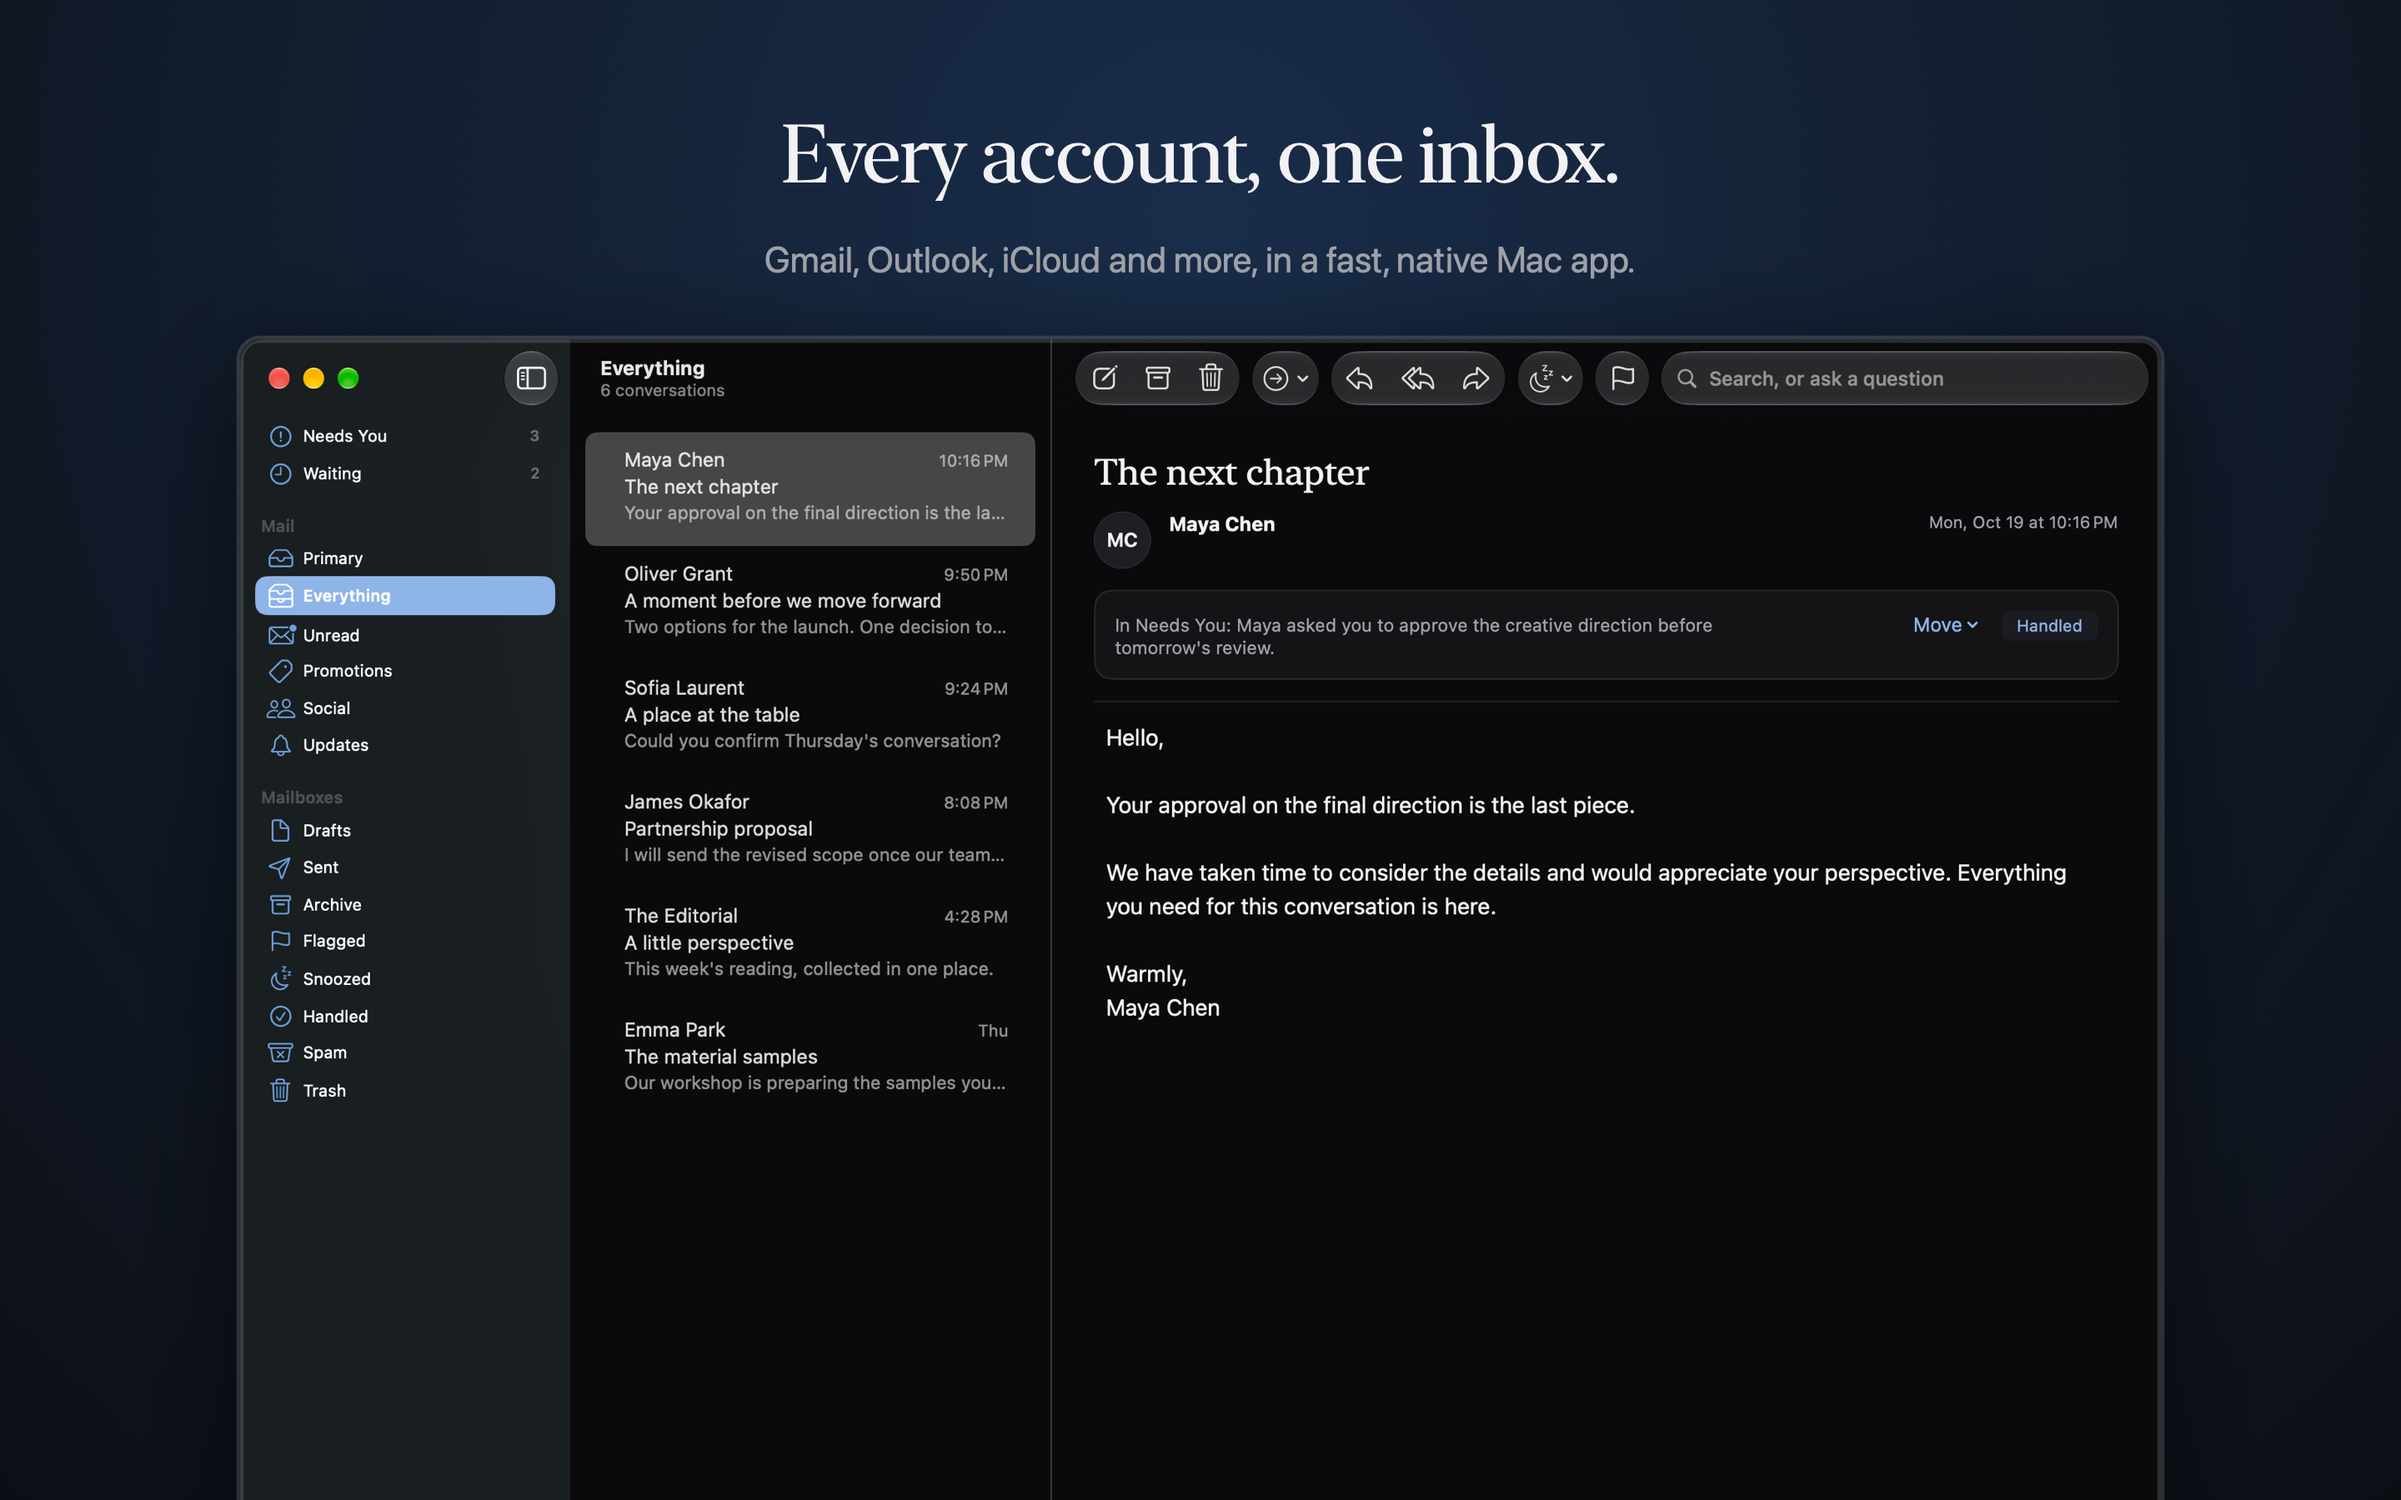
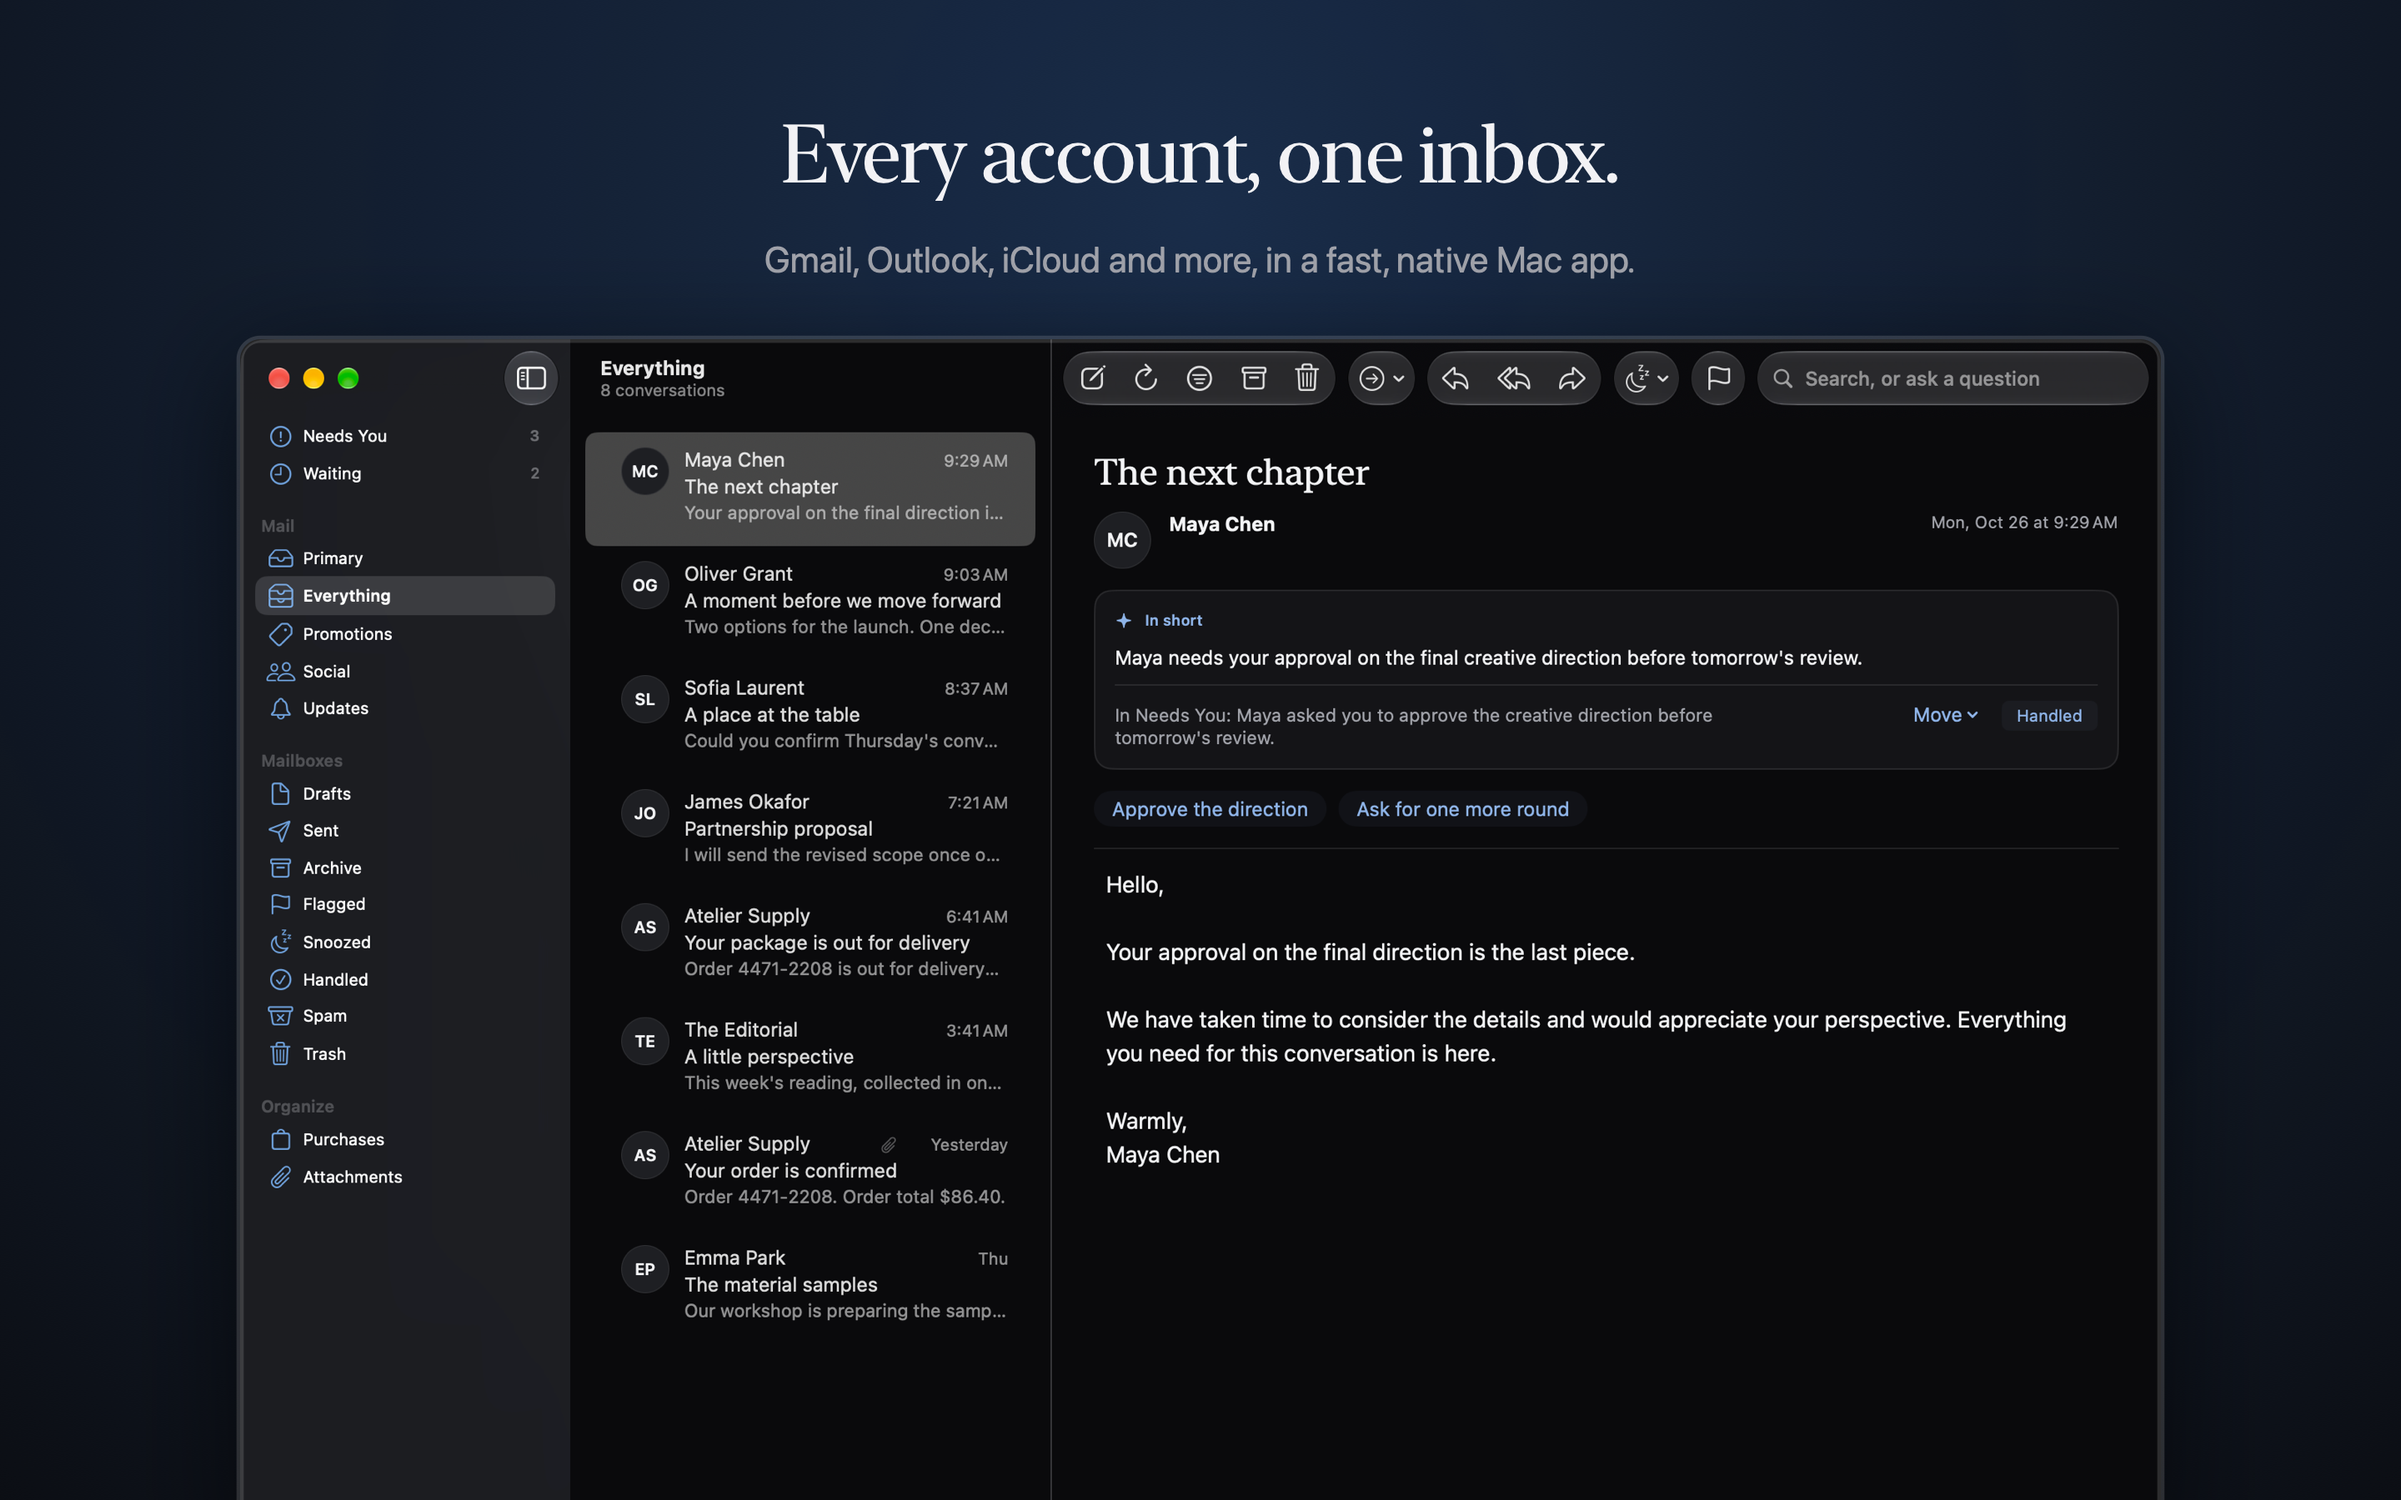
iPad sidebar accounts laid out properly; Mac App Store shots retaken
- iPad: the sidebar's account rows reused the account menu's rows, which a
  sidebar list draws as centred, wrapped text ("alex.morgan@gmail.-com").
  They now show each account's colour, its name with the address beneath
  on one line, and a checkmark on the one shown.
- Mac App Store screenshots retaken from today's build: the old set still
  had Unread in the sidebar. Six, now with Replies that sound like you.
- Debug-only screenshot options: -ShowAccounts and -Compose on iOS,
  -ShowPalette on the Mac; the made-up -SampleAccounts keep the sample mail.
- RenderDeviceShot takes a fit, so a Mac window (with its shadow) sits on
  the desktop below the notch; site-devices.sh uses the portrait iPad Pro.
- asc-listing.mjs waits up to 10 minutes for Apple to process an upload.

diff --git a/Features/CorresShell.swift b/Features/CorresShell.swift
@@ -357,6 +357,15 @@ struct CorresShell: View {
                 try? await Task.sleep(for: .seconds(1.5))
                 router.pending = .thread(ThreadID(account: "sample", providerID: args[flag + 1]))
             }
+            // -ShowAccounts opens the account switcher; -Compose a new email.
+            if args.contains("-ShowAccounts") {
+                try? await Task.sleep(for: .seconds(1.5))
+                showingAccounts = true
+            }
+            if args.contains("-Compose") {
+                try? await Task.sleep(for: .seconds(1.5))
+                router.pending = .compose
+            }
             #endif
         }
     }
@@ -775,7 +784,7 @@ struct CorresShell: View {
                     .padding(.bottom, 6)
                 }
                 if auth.accounts.count > 1 {
-                    Section("Accounts") { accountMenu }
+                    Section("Accounts") { sidebarAccounts }
                 }
             }
             .navigationSplitViewColumnWidth(min: 200, ideal: 240)
@@ -836,30 +845,48 @@ struct CorresShell: View {
         }
     }
 
-    /// "All Inboxes" (every connected account merged, newest first; the
-    /// default) plus one row per account. Reached by tapping the screen's
-    /// title, the system's own place for switching what a screen shows.
+    /// The iPad sidebar's accounts: All Inboxes (every account merged,
+    /// newest first; the default), then each account in its colour, its
+    /// name with the address beneath, and a checkmark on the one shown.
     @ViewBuilder
-    private var accountMenu: some View {
-        Button {
-            accountFilter = nil
-        } label: {
-            if accountFilter == nil { Label("All Inboxes", systemImage: "checkmark") }
-            else { Label("All Inboxes", systemImage: "tray.2") }
+    private var sidebarAccounts: some View {
+        let emails = auth.accounts.map(\.email)
+        sidebarAccountRow(selected: accountFilter == nil, action: { accountFilter = nil }) {
+            Label("All Inboxes", systemImage: "tray.2")
         }
         ForEach(auth.accounts) { account in
-            Button {
-                accountFilter = account.email
-            } label: {
-                // Its name in Corres ("Work", "Gmail"), the address beneath.
-                if accountFilter == account.email {
-                    Label(AccountPreferences.nickname(for: account.email), systemImage: "checkmark")
-                } else {
-                    Text(AccountPreferences.nickname(for: account.email))
+            sidebarAccountRow(selected: accountFilter == account.email, action: { accountFilter = account.email }) {
+                Label {
+                    VStack(alignment: .leading, spacing: 1) {
+                        Text(AccountPreferences.nickname(for: account.email))
+                        Text(account.email)
+                            .font(.caption)
+                            .foregroundStyle(.secondary)
+                            .lineLimit(1)
+                            .truncationMode(.middle)
+                    }
+                } icon: {
+                    Image(systemName: "circle.fill")
+                        .imageScale(.small)
+                        .foregroundStyle(AccountPreferences.color(for: account.email, among: emails) ?? .secondary)
                 }
-                Text(account.email)
             }
         }
+    }
+
+    private func sidebarAccountRow(selected: Bool, action: @escaping () -> Void, @ViewBuilder label: () -> some View) -> some View {
+        Button(action: action) {
+            HStack {
+                label()
+                Spacer(minLength: 8)
+                if selected {
+                    Image(systemName: "checkmark").foregroundStyle(.tint).accessibilityHidden(true)
+                }
+            }
+            .contentShape(Rectangle())
+        }
+        .buttonStyle(.plain)
+        .accessibilityAddTraits(selected ? .isSelected : [])
     }
 
     /// Whose face the account button shows: the account being viewed, or

diff --git a/Scripts/RenderDeviceShot.swift b/Scripts/RenderDeviceShot.swift
@@ -4,10 +4,12 @@
 // fills the bezel's transparent screen, found by walking out from the
 // middle of the image.
 //
-//   swift Scripts/RenderDeviceShot.swift <bezel.png> <screenshot.png> <out.png> [background #RRGGBB]
+//   swift Scripts/RenderDeviceShot.swift <bezel.png> <screenshot.png> <out.png> [background #RRGGBB] [fit]
 //
-// A screenshot whose shape doesn't match the screen (a Mac window on a
-// MacBook display) is centered on the background color, scaled to fit.
+// A screenshot whose shape doesn't match the screen, or any screenshot
+// given a fit below 1 (a Mac window, shadow and all, on a MacBook display), sits
+// on the background color at that share of the screen, centered below
+// the camera notch.
 import AppKit
 
 let args = CommandLine.arguments
@@ -61,7 +63,8 @@ let shotSize = shot.representations.first.map { CGSize(width: $0.pixelsWide, hei
 let clip = screen.insetBy(dx: -2, dy: -2)
 cg.addPath(CGPath(roundedRect: clip, cornerWidth: min(radius + 2, clip.width / 2), cornerHeight: min(radius + 2, clip.height / 2), transform: nil))
 cg.clip()
-let sameShape = abs(shotSize.width / shotSize.height - screen.width / screen.height) < 0.02
+let fit = args.count > 5 ? CGFloat(Double(args[5]) ?? 1) : 1
+let sameShape = fit >= 1 && abs(shotSize.width / shotSize.height - screen.width / screen.height) < 0.02
 if sameShape {
     // Slightly past the edges, under the bezel, so no hairline shows.
     shot.draw(in: screen.insetBy(dx: -2, dy: -2))
@@ -71,9 +74,12 @@ if sameShape {
     cg.setFillColor(NSColor(srgbRed: CGFloat((v >> 16) & 255) / 255, green: CGFloat((v >> 8) & 255) / 255,
                             blue: CGFloat(v & 255) / 255, alpha: 1).cgColor)
     cg.fill(screen.insetBy(dx: -2, dy: -2))
-    let scale = min(screen.width / shotSize.width, screen.height / shotSize.height)
+    let scale = min(screen.width / shotSize.width, screen.height / shotSize.height) * min(fit, 1)
     let size = CGSize(width: shotSize.width * scale, height: shotSize.height * scale)
-    shot.draw(in: CGRect(x: screen.midX - size.width / 2, y: screen.midY - size.height / 2, width: size.width, height: size.height))
+    // Centered in what's left below the top 4%, where a MacBook's notch is.
+    let below = screen.height * 0.96
+    shot.draw(in: CGRect(x: screen.midX - size.width / 2, y: screen.minY + (below - size.height) / 2,
+                         width: size.width, height: size.height))
 }
 cg.resetClip()
 NSImage(cgImage: bezel.cgImage!, size: NSSize(width: width, height: height))

diff --git a/App/AppDelegate.swift b/App/AppDelegate.swift
@@ -189,7 +189,12 @@ final class AppDelegate: NSObject, UIApplicationDelegate {
         // Preferences handles the first-connection case itself): sample
         // threads from before that connection existed have no reason to
         // still be mixed into real mail.
-        if !accountEmails.isEmpty {
+        var keepsSample = false
+        #if DEBUG
+        // Screenshots: the made-up accounts show the sample mail.
+        keepsSample = SampleAccounts.isOn
+        #endif
+        if !accountEmails.isEmpty, !keepsSample {
             await store.deleteSampleDataIfPresent()
         }
         await outbox.resumeAfterRelaunch()

diff --git a/Mac/MacMainView.swift b/Mac/MacMainView.swift
@@ -554,6 +554,10 @@ struct MacMainView: View {
                       replyIntents: ["Approve the direction", "Ask for one more round"]), on: maya)
         }
         if args.contains("-SettingsTab") { openSettings() }
+        if args.contains("-ShowPalette") {
+            try? await Task.sleep(for: .milliseconds(600))
+            showingPalette = true
+        }
         if let to = value("-ComposeTo") { openWindow(value: ComposeRequest(kind: .new, to: to)) }
         if let thread = value("-SelectThread") {
             try? await Task.sleep(for: .milliseconds(300))

diff --git a/Docs/app-store-listing.md b/Docs/app-store-listing.md
@@ -265,10 +265,16 @@ a thread, Private by design. Re-render with
 `swift Scripts/RenderStoreShot.swift <capture> <out> "Headline." "Line under it."`
 from Simulator captures of fresh sample mail (status bar at 9:41).
 
-Mac (macOS App 1.0, uploaded 2026-10-19): five 2880 × 1800 in
-`Docs/AppStore/mac/` (Know what needs you, Every account one inbox, Ask your
-mail, Everything from the keyboard, Never lose a thread), captured from a
-debug build run with `-SampleMailOnly -ShowMailbox … -SelectThread sample-N`
+Mac (macOS App 1.0, retaken 2026-10-26 because the 2026-10-19 set still
+showed Unread in the sidebar): six 2880 × 1800 in `Docs/AppStore/mac/`
+(Know what needs you, Every account one inbox, Ask your mail, Everything
+from the keyboard, Never lose a thread, Replies that sound like you),
+captured from a debug build run with `-SampleMailOnly -CorresScreenshots
+-corres.appearance dark -ShowMailbox … -SelectThread sample-N` (plus
+`-SearchFor "…"`, `-ShowPalette` for ⌘K, `-SampleReplies`), with `TZ` set to
+a zone where it's just past 9:41 so the sample mail reads as this morning,
+and uploaded with `node Scripts/asc-listing.mjs replace-shots en-US
+APP_DESKTOP Docs/AppStore/mac/mac-*.png`
 (sample mail in memory, Spotlight off, so a real Corres on the same Mac is
 untouched). The window has to be on a regular desktop Space: macOS doesn't
 draw windows on another Space or a full-screen one. The Mac description is
